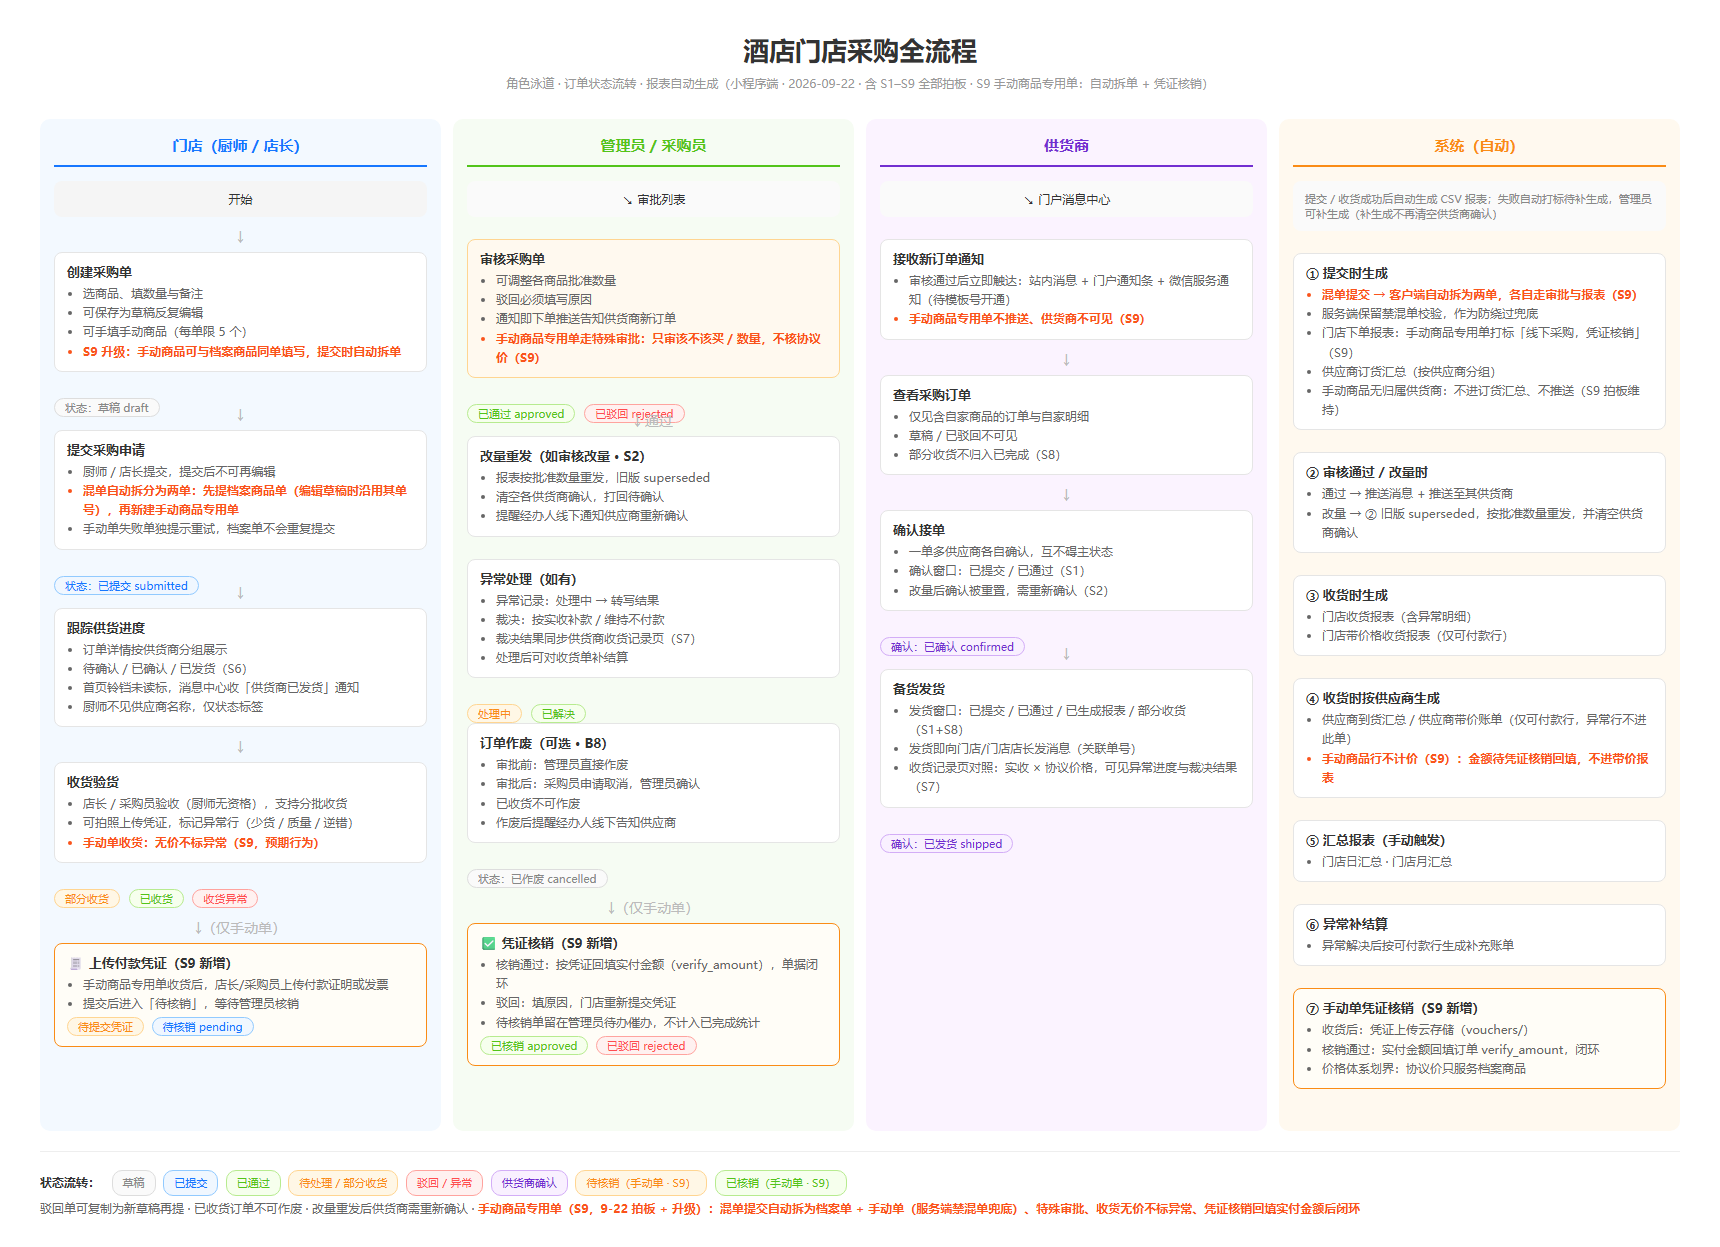
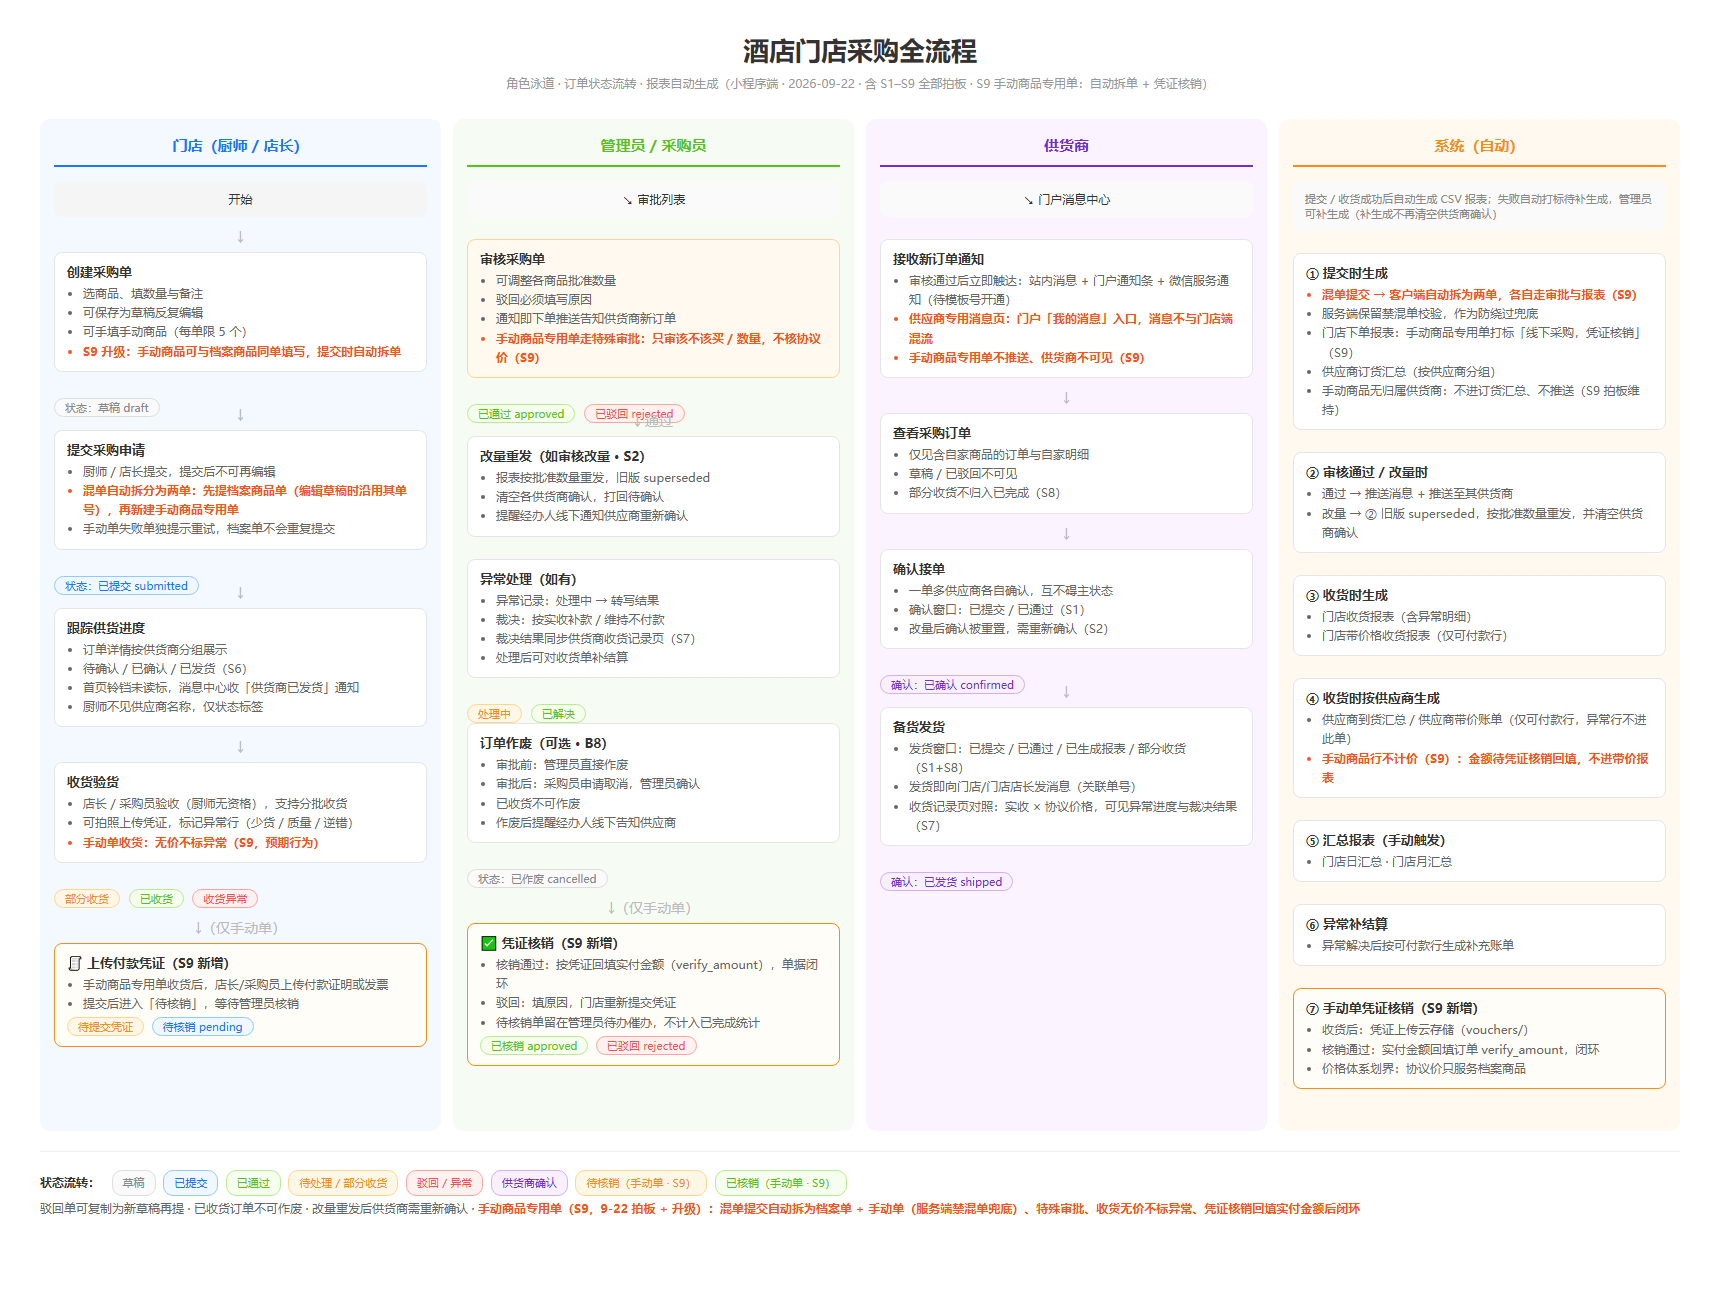
docs: sync README, log and flow diagram for S9 auto-split + supplier message center
- README: S9 entry updated to auto-split behavior; add supplier-messages
  page; document store-side message visibility (store_id + recipient)
- log.md: add 17-14 changelog covering S9 voucher flow, auto-split,
  hardening, supplier message center
- flow diagram: supplier dedicated message page note + PNG sync

diff --git a/采购流程图.html b/采购流程图.html
@@ -186,6 +186,7 @@
       <div class="node-title">接收新订单通知</div>
       <ul>
         <li>审核通过后立即触达：站内消息 + 门户通知条 + 微信服务通知（待模板号开通）</li>
+        <li class="hl">供应商专用消息页：门户「我的消息」入口，消息不与门店端混流</li>
         <li class="hl">手动商品专用单不推送、供货商不可见（S9）</li>
       </ul>
     </div>

diff --git a/README.md b/README.md
@@ -21,7 +21,7 @@
 - **B4/B6 行级异常隔离**：短收只标记异常行，正常行照常结算；异常处理完由管理员 `settleReceipt` 补结算。
 - **B8 作废/取消**：审批前可作废（`cancelOrder`）；店长/采购员可提交取消申请（`requestCancel`）；驳回单可复制为新草稿（B7）。
 - **供货商链路（S1–S8）**：动作级白名单（确认接单限审批前、标记发货放宽到审批后含 `partial_received`）；审核改量重置供货商确认；`partial_received` 不算已完成；详情页按供货商分组展示确认标签。
-- **S9 手动商品专用单（2026-09-22 拍板）**：手填手动商品**强制单独成单**（不可与档案商品混单，前端拦截 + `createPurchaseOrder` 后端兜底），走**特殊审批**（不核协议价）；收货无价为预期行为（跳过协议价查询、不标异常、不进带价报表与补结算）；收货后**上传付款凭证**（云存储 `vouchers/`），管理员**核销回填实付金额**（`dataService.verifyManualOrder`，状态 `none → pending → approved/rejected`）后单据闭环；待核销单留在管理员待办催办。供货商端全程不可见。协议价体系只服务档案商品（价格管理页支持首次定价）。
+- **S9 手动商品专用单（2026-09-22 拍板，同日升级为自动拆单）**：手动商品可与档案商品同单填写，提交时前端**自动拆为两单**——档案商品单 + 手动商品专用单（幂等键拆 `:c`/`:m` 子键，部分失败保留已建单号，重试不重复建单；`createPurchaseOrder` 后端保留禁混单兜底校验）。两单各自走审批与报表：手动单只出门店下单报表并打标「线下采购，凭证核销」，不进供应商订货汇总。手动单走**特殊审批**（不核协议价）；收货无价为预期行为（跳过协议价查询、不标异常、不进带价报表与补结算）；收货后**上传付款凭证**（云存储 `vouchers/`），管理员**核销回填实付金额**（`dataService.verifyManualOrder`，状态 `none → pending → approved/rejected`，条件更新防并发重复核销）后单据闭环；待核销单留在管理员待办催办。供货商端全程不可见。协议价体系只服务档案商品（价格管理页支持首次定价）。
 
 完整决策留痕见 [业务模糊点确认清单.md](业务模糊点确认清单.md)。
 
@@ -30,8 +30,8 @@
 采购单**审核通过**后自动下推给相关供货商（`dataService.notifySuppliersNewOrder`）：
 
 1. **微信服务通知**（订阅消息）：`cloud.openapi.subscribeMessage.send`，跳转供货商订单页；一次性订阅，授权额度内推送，失败/未订阅静默降级。
-2. **供货商首页通知条**：门户顶部显示未读数 + 最新一条消息，点击进消息中心。
-3. **消息中心**：站内消息按 `scope_type='supplier'` + `scope_id` 定向，必达兜底。
+2. **供货商首页通知条**：门户顶部显示未读数 + 最新一条消息，点击进供货商消息中心（`supplier-messages` 独立页）。
+3. **消息中心**：站内消息按 `scope_type='supplier'` + `scope_id` 定向，必达兜底；门店侧消息按 `store_id` + `recipient_user_id` 过滤（广播 / 定向 / 本门店），已读按人独立（`read_by`）。
 
 ### 上线前需配置（模板 ID 占位符）
 
@@ -50,6 +50,7 @@ pages/                 小程序页面（门店端 + 供货商门户）
   supplier-orders/     供货商订单（确认接单/标记发货）
   supplier-receipts/   供货商收货对账（含异常裁决展示）
   supplier-prices/     协议价查询
+  supplier-messages/   供货商消息中心（订单通知，按人 read_by 已读）
   purchase-*           采购单创建/列表/详情
   receive-*            收货验收/收货记录
   report-*             报表列表/详情/历史

diff --git a/log.md b/log.md
@@ -1,3 +1,24 @@
+# 版本日志 — 17-14 (S9 手动单闭环 + 自动拆单 + 供货商消息中心 2026-09-23)
+
+## 📅 版本信息
+- **版本目录**: 17-14
+- **更新时间**: 2026-09-23
+- **类型**: 功能上线 + 加固（5项）
+
+---
+
+## 本轮修改清单
+
+| # | 范围 | 修改内容 |
+|---|------|----------|
+| 1 | `createPurchaseOrder` / `dataService` / `createReceipt` / `purchase-detail` | ✅ **S9 手动商品专用单**：强制单独成单 + 凭证核销闭环（`verifyManualOrder`：店长/采购员/管理员提交凭证 → 采购员/管理员核销回填实付金额或驳回）；收货无价不标异常、不进带价报表与补结算；日/月汇总报表金额口径排除手动行。提交 `71c7c99` `2c61742` |
+| 2 | `purchase-create` | ✅ **混单自动拆单**：手动商品与档案商品可同单填写，提交时自动拆为两单（档案单沿用草稿单号，手动单新建）；幂等键拆 `:c`/`:m` 子键防互判重复；部分失败保留已建单号并保留手动商品在本页，重试不重复建单。提交 `ad489bd` |
+| 3 | `dataService` | ✅ **核销加固**：核销裁决条件更新防并发重复核销；驳回原因独立字段（重传不覆盖）；替换下来的旧凭证图自动从云存储清理。提交 `2c61742` |
+| 4 | `supplier-home` / `supplier-messages`（新增页） | ✅ **供货商消息中心**：门户通知条点击进入独立消息列表页（`scope_type='supplier'` 定向消息，支持标记已读/全部已读）；首页退出登录增加确认弹窗。提交 `9c20711` |
+| 5 | 流程图文档 | ✅ 采购流程图 HTML + PNG 同步至 S9 最终版（自动拆单 + 凭证核销支线）。提交 `a16218b` `9b63dd6` `e4b3c8e` |
+
+---
+
 # 版本日志 — 17-13 (价格首次定价入口 + 首页文案 2026-09-22)
 
 ## 📅 版本信息
